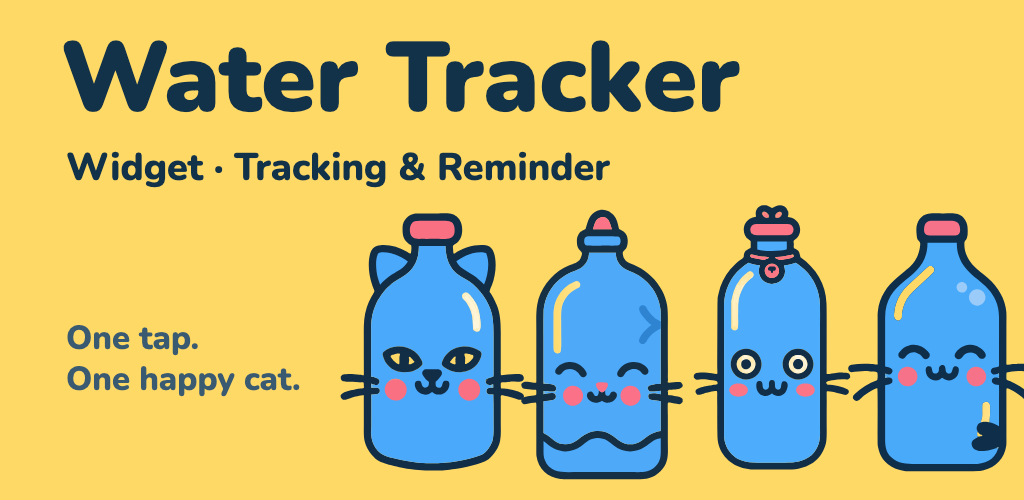
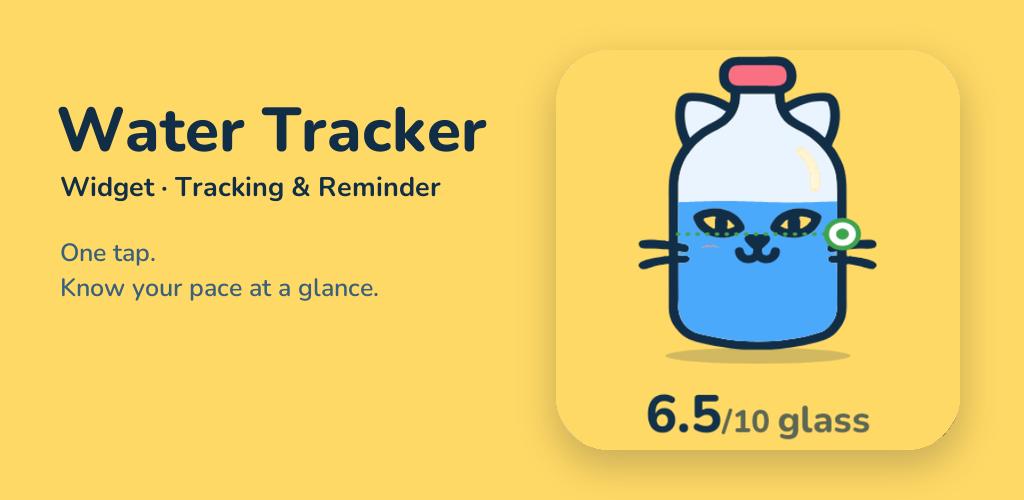
Add in-app review prompt; refresh feature graphic and listing copy
- Ask for a rating with Google's in-app review card when the config
  screen opens, once the app has been installed 2+ days and at most
  once every 30 days. Verified the release manifest still has no
  INTERNET permission. Pins a current androidx.fragment (the review
  library pulls in 1.1.0, which lint rejects) and adds an R8 dontwarn
  for a compile-time-only annotation it references.
- Feature graphic now shows the single eared character with the pace
  marker instead of the three retired designs.
- Listing copy: drop the four-character, creeper and old burst-animation
  claims, fix the quoted notification text, update "What's new".

diff --git a/v1/WaterTracker/app/src/main/java/com/developerjabberai/watertracker/ui/ReviewPrompt.kt b/v1/WaterTracker/app/src/main/java/com/developerjabberai/watertracker/ui/ReviewPrompt.kt
@@ -1,0 +1,35 @@
+package com.developerjabberai.watertracker.ui
+
+import android.app.Activity
+import android.content.Context
+import com.developerjabberai.watertracker.data.WaterStore
+import com.google.android.play.core.ktx.launchReview
+import com.google.android.play.core.ktx.requestReview
+import com.google.android.play.core.review.ReviewManagerFactory
+
+private const val MIN_DAYS_INSTALLED = 2
+private const val MIN_DAYS_BETWEEN_ASKS = 30
+private const val DAY_MS = 24L * 60 * 60 * 1000
+
+/**
+ * Asks for a rating with Google's own in-app review card, once the app has been installed for a couple of
+ * days and never more than once a month. Google decides whether the card actually appears (it rate-limits
+ * apps), and it only works on copies installed from Play, so this is a quiet no-op everywhere else.
+ */
+suspend fun maybeAskForReview(activity: Activity, store: WaterStore) {
+    val now = System.currentTimeMillis()
+    val installedFor = now - firstInstallMs(activity)
+    if (installedFor < MIN_DAYS_INSTALLED * DAY_MS) return
+    val last = store.lastReviewAskMs
+    if (last != 0L && now - last < MIN_DAYS_BETWEEN_ASKS * DAY_MS) return
+
+    val manager = ReviewManagerFactory.create(activity)
+    runCatching {
+        val info = manager.requestReview()
+        store.lastReviewAskMs = now
+        manager.launchReview(activity, info)
+    }
+}
+
+private fun firstInstallMs(context: Context): Long =
+    context.packageManager.getPackageInfo(context.packageName, 0).firstInstallTime

diff --git a/v1/WaterTracker/app/src/main/java/com/developerjabberai/watertracker/ui/ConfigScreen.kt b/v1/WaterTracker/app/src/main/java/com/developerjabberai/watertracker/ui/ConfigScreen.kt
@@ -37,6 +37,7 @@ import androidx.compose.material3.OutlinedButton
 import androidx.compose.material3.Text
 import androidx.compose.material3.TextButton
 import androidx.compose.runtime.Composable
+import androidx.compose.runtime.LaunchedEffect
 import androidx.compose.runtime.getValue
 import androidx.compose.runtime.mutableIntStateOf
 import androidx.compose.runtime.mutableStateOf
@@ -68,6 +69,13 @@ fun ConfigScreen(resumeTick: Int = 0) {
 
     // Re-checked every time the app comes back to the front, so it stays right after adding or removing one.
     val widgets = remember(resumeTick) { widgetCount(context) }
+
+    // A quiet ask for a rating, a moment after the screen settles (see maybeAskForReview for the rules).
+    LaunchedEffect(Unit) {
+        val activity = context as? android.app.Activity ?: return@LaunchedEffect
+        kotlinx.coroutines.delay(1500)
+        maybeAskForReview(activity, store)
+    }
 
     Column(Modifier.fillMaxSize().background(Color(0xFFF4FAFD)).statusBarsPadding().navigationBarsPadding()) {
     Column(

diff --git a/v1/WaterTracker/app/src/main/java/com/developerjabberai/watertracker/data/WaterStore.kt b/v1/WaterTracker/app/src/main/java/com/developerjabberai/watertracker/data/WaterStore.kt
@@ -86,6 +86,11 @@ class WaterStore(context: Context) {
         get() = prefs.getBoolean("notifications_asked", false)
         set(v) = prefs.edit().putBoolean("notifications_asked", v).apply()
 
+    /** When we last showed Google's review card (0 = never), so we can wait before ever asking again. */
+    var lastReviewAskMs: Long
+        get() = prefs.getLong("last_review_ask", 0L)
+        set(v) = prefs.edit().putLong("last_review_ask", v).apply()
+
     /** Set once the first-run welcome has been completed or skipped. */
     var onboarded: Boolean
         get() = prefs.getBoolean("onboarded", false)

diff --git a/v1/store/listing.md b/v1/store/listing.md
@@ -5,30 +5,30 @@
 **Short description (80):** Water tracker widget: tap to log water. A little cat cheers you on.
 
 **Full description (4000):**
-Water Tracker is a water tracker widget for your home screen — the widget is the whole app.
+Water Tracker is a water tracker widget for your home screen — no app to open, the widget is the whole app.
 
-Tap it to log water. The bottle fills with a splash and gives a happy little bounce. A different cat-bottle character keeps you company each day.
+Tap it to log water. The bottle fills with a splash and gives a happy little bounce, with a cheerful cat-bottle character cheering you on.
 
 WHAT YOU GET
 - One tap logs half a glass or a full glass, your choice
-- Four cute characters that take turns, one each day
-- A dotted line shows where you should be by now, so you can tell at a glance if you're ahead or behind
-- A reminder that's impossible to miss when you're falling behind on water
+- A dotted line marks where you should be by now, with a target dot colour-coded Behind, On Track, or Ahead — a hydration check at a glance
+- See your progress as glasses and litres, right on the widget
+- A reminder that's impossible to miss: when you unlock your phone behind on water, the bottle gives a happy bounce, then shows exactly how much to drink
 - A simple 7-day view in the app
 - Everything stays on your device. No account, no ads, no tracking — the app doesn't even ask for internet access
 
 HOW IT WORKS
-Add the widget to your home screen in one tap, pick your daily goal, and choose whether a tap logs half a glass or a full one. That's it.
+Add the widget to your home screen in one tap, pick your daily hydration goal (2 L, 3 L or 4 L), and choose whether a tap logs half a glass or a full one. That's it.
 
 A NOTE ON PERMISSIONS
-Water Tracker uses a small background service so it can notice when you unlock your phone and remind you to drink. It shows one quiet notification you can hide any time. Nothing about your unlocks is stored or sent anywhere.
+Water Tracker uses a small background service so it can notice when you unlock your phone and remind you to drink. It shows one quiet notification ("Tap your widget to log water") you can hide any time. Nothing about your unlocks is stored or sent anywhere.
 
 Water Tracker is not a medical app and gives no medical advice.
 
 **Category:** Health & Fitness
 **Tags:** water tracker, hydration, widget, drink water reminder, habit tracker
 
-**What's new (1.0.0):** First release. One-tap water logging from your home screen, four daily characters, and a reminder you won't miss.
+**What's new (1.0.14):** Clearer at-a-glance pace status (Behind, On Track, Ahead), a more precise target marker, and a calmer unlock reminder.
 
 **Localised titles** (Play Console > Store listing > Translations; all 30 characters or fewer):
 - de: Widget: Wasser Erinnerung
